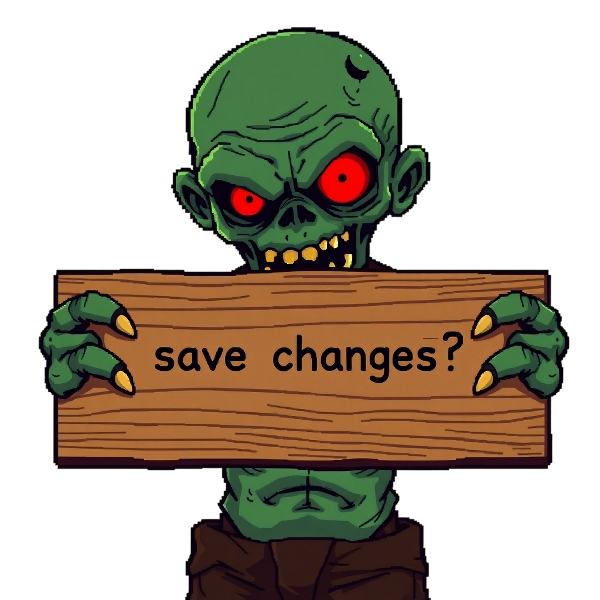
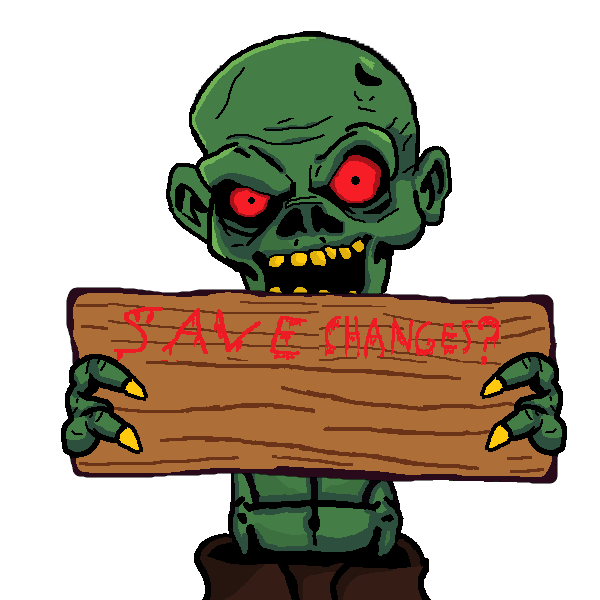
menu option zombie animation apparition disparition, touche modifié en rouge

diff --git a/menu/settings_menu.py b/menu/settings_menu.py
@@ -25,15 +25,20 @@ class settingsMenu:
         self.reset_img = pygame.image.load("img/settings_menu/reset_btn.png").convert_alpha()
         self.yes_img = pygame.image.load("img\settings_menu\YES.png").convert_alpha()
         self.no_img = pygame.image.load("img/settings_menu/NO.png").convert_alpha()
+        self.cancel_img = pygame.image.load("img/settings_menu/cancel.png").convert_alpha()
         
 
         self.zombie = zombieSettings(self.screen,"img/settings_menu/zombie_body.png","img/settings_menu/zombie_arm.png",1920//2,1080)
-        self.target_zombie_y = self.zombie.zombie_body_img_rect.y + 1000
+        self.target_zombie_hide = self.zombie.zombie_body_img_rect.y + 1000
+        self.target_zombie_show = self.zombie.zombie_body_img_rect.y
 
         self.leave_zombie_img = pygame.image.load("img\settings_menu\leave_alert.png").convert_alpha()
         self.leave_zombie_rect = self.leave_zombie_img.get_rect()
         self.leave_zombie_rect.midtop = (1920//2, 1080)
-        self.target_y = 500
+
+        self.target_leave_show = self.leave_zombie_rect.y - 600
+        self.target_leave_hide = self.leave_zombie_rect.y 
+
         self.speed = 20
         
         self.back_button = Button(self.screen,20,900,self.back_img,0.8)
@@ -42,8 +47,12 @@ class settingsMenu:
 
         self.yes_btn = Button(self.screen, self.leave_zombie_rect.center[0]-130, self.leave_zombie_rect.center[1]+100, self.yes_img)
         self.no_btn = Button(self.screen, self.leave_zombie_rect.center[0]+100, self.leave_zombie_rect.center[1]+100, self.no_img)
+        self.cancel_btn = Button(self.screen, self.leave_zombie_rect.center[0]-40, self.leave_zombie_rect.center[1]+100, self.cancel_img)
+
+
         self.target_yes = (self.leave_zombie_rect.center[0]-130, self.leave_zombie_rect.center[1]+100)
         self.target_no = (self.leave_zombie_rect.center[0]+100, self.leave_zombie_rect.center[1]+100)
+        self.target_cancel = (self.leave_zombie_rect.center[0], self.leave_zombie_rect.center[1]+100)
 
         self.current_touch = None
         self.change_detected = False
@@ -92,6 +101,50 @@ class settingsMenu:
         for i in range(len(self.touch_list)): 
            self.touch_list[i].touch[1] = list(self.controls.values())[i]
         
+    def hide_zombie_point(self):
+        if self.zombie.zombie_body_img_rect.y < self.target_zombie_hide:
+            self.zombie.zombie_body_img_rect.y += self.speed
+            self.zombie.zombie_arm_img_rect.y += self.speed
+            if self.zombie.zombie_body_img_rect.y > self.target_zombie_hide:
+                self.zombie.zombie_body_img_rect.y = self.target_zombie_hide 
+                self.zombie.zombie_arm_img_rect.y = self.target_zombie_hide 
+            return 0
+        return 1
+
+    def hide_zombie_leave(self):
+        if self.leave_zombie_rect.y < self.target_leave_hide:
+            self.leave_zombie_rect.y += self.speed
+            self.yes_btn.rect[1] += self.speed
+            self.no_btn.rect[1] += self.speed
+            self.cancel_btn.rect[1] += self.speed
+            if self.leave_zombie_rect.y > self.target_leave_hide:
+                self.leave_zombie_rect.y = self.target_leave_hide  
+                self.yes_btn.rect.center = self.target_yes
+                self.no_btn.rect.center = self.target_no
+                self.cancel_btn.rect.center = self.target_cancel
+            return 0
+        return 1
+
+    def show_zombie_point(self):
+         if self.zombie.zombie_body_img_rect.y > self.target_zombie_show:
+            self.zombie.zombie_body_img_rect.y -= self.speed
+            self.zombie.zombie_arm_img_rect.y -= self.speed
+            if self.zombie.zombie_body_img_rect.y < self.target_zombie_show:
+                self.zombie.zombie_body_img_rect.y = self.target_zombie_show 
+                self.zombie.zombie_arm_img_rect.y = self.target_zombie_show
+
+    def show_zombie_leave(self):
+        if self.leave_zombie_rect.y > self.target_leave_show:
+            self.leave_zombie_rect.y -= self.speed
+            self.yes_btn.rect[1] -= self.speed
+            self.no_btn.rect[1] -= self.speed
+            self.cancel_btn.rect[1] -= self.speed
+            if self.leave_zombie_rect.y < self.target_leave_show:
+                self.leave_zombie_rect.y = self.target_leave_show  # Pour ne pas dépasser
+                self.yes_btn.rect.center = self.target_yes
+                self.no_btn.rect.center = self.target_no
+                self.cancel_btn.rect.center = self.target_cancel
+    
     def update(self, key, manager):
         """Met à jour les interactions du menu."""
         self.screen.fill((0,0,0))
@@ -99,38 +152,33 @@ class settingsMenu:
         self.zombie.draw()
         self.zombie.point_at(pygame.mouse.get_pos())
         
-        
         for i in self.touch_list:
             i.draw()
         
         if self.change_detected:
             #en bas zombie avec bras
-            if self.zombie.zombie_body_img_rect.y < self.target_zombie_y:
-                self.zombie.zombie_body_img_rect.y += self.speed
-                self.zombie.zombie_arm_img_rect.y += self.speed
-                if self.zombie.zombie_body_img_rect.y > self.target_zombie_y:
-                    self.zombie.zombie_body_img_rect.y = self.target_zombie_y 
-                    self.zombie.zombie_arm_img_rect.y = self.target_zombie_y 
-            else:
-                #en haut zombie avec bras
-                if self.leave_zombie_rect.y > self.target_y:
-                    self.leave_zombie_rect.y -= self.speed
-                    self.yes_btn.rect[1] -= self.speed
-                    self.no_btn.rect[1] -= self.speed
-                    if self.leave_zombie_rect.y < self.target_y:
-                        self.leave_zombie_rect.y = self.target_y  # Pour ne pas dépasser
-                        self.yes_btn.rect.center = self.target_yes
-                        self.no_btn.rect.center = self.target_no
+            if(self.hide_zombie_point()):
+                self.show_zombie_leave()
 
             self.screen.blit(self.leave_zombie_img, self.leave_zombie_rect)
             self.yes_btn.draw()
             self.no_btn.draw()
+            self.cancel_btn.draw()
+
+        else:
+            if(self.hide_zombie_leave()):
+                self.show_zombie_point()
+            
+            self.screen.blit(self.leave_zombie_img, self.leave_zombie_rect)
+            self.yes_btn.draw()
+            self.no_btn.draw()
+            self.cancel_btn.draw()
 
         self.save_button.draw()
         self.back_button.draw()
         self.reset_button.draw()
         
-        # detecte quelle touch est en cours de selection
+        # detecte quelle touche est en cours de selection
         for i in self.touch_list:
             if i.detect():
                 self.current_touch = i
@@ -157,14 +205,18 @@ class settingsMenu:
                 self.current_touch.draw_default_touch()
                 self.controls[self.current_touch.touch[0]] = self.current_touch.touch[1]
                 self.current_touch = None
-        
-    
+
         if self.save_button.detect():
             self.save_change()
+            for touch in self.touch_list:
+                touch.color = "black"
 
         if self.yes_btn.detect():
             self.save_change()
             self.leave_menu(manager)
+
+        if self.cancel_btn.detect():
+            self.change_detected = False
 
         if self.no_btn.detect():
             self.leave_menu(manager)
@@ -175,5 +227,9 @@ class settingsMenu:
         if self.back_button.detect():
             if self.controls_save != self.controls:
                 self.change_detected = True
+                for touch in self.touch_list:
+                    if touch.touch[1] not in list(self.controls_save.values()):
+                        touch.color = "red"
+             
             else:
                 self.leave_menu(manager)

diff --git a/menu/tools/map_touch.py b/menu/tools/map_touch.py
@@ -8,6 +8,7 @@ class Touch:
         self.y = y
         self.frame_size = 50
         self.frame_rect = (self.x+(self.frame_size/2), self.y+(self.frame_size/2))
+        self.color = "black"
         # self.is_select = False
        
     def draw(self):
@@ -28,7 +29,7 @@ class Touch:
 
     def draw_default_touch(self):
         pygame.draw.rect(self.screen,"white", (self.x,self.y, self.frame_size,self.frame_size))
-        pygame.draw.rect(self.screen,"black", (self.x+2,self.y+2, self.frame_size-4,self.frame_size-4))
+        pygame.draw.rect(self.screen,self.color, (self.x+2,self.y+2, self.frame_size-4,self.frame_size-4))
         font = pygame.font.Font("The Last Of Us Rough.ttf", 40)
         self.touch_text = font.render(self.touch[1], True, (255,255,255))
         self.touch_text_rect = self.touch_text.get_rect(center=(self.frame_rect[0], self.frame_rect[1]))
@@ -36,7 +37,7 @@ class Touch:
 
     def draw_select_touch(self):
         pygame.draw.rect(self.screen,"white", (self.x,self.y, self.frame_size,self.frame_size))
-        pygame.draw.rect(self.screen,"black", (self.x+2,self.y+2, self.frame_size-4,self.frame_size-4))
+        pygame.draw.rect(self.screen,self.color, (self.x+2,self.y+2, self.frame_size-4,self.frame_size-4))
         font = pygame.font.Font("The Last Of Us Rough.ttf", 40)
         self.touch_text = font.render("__", True, (255,255,255))
         self.touch_text_rect = self.touch_text.get_rect(center=(self.frame_rect[0], self.frame_rect[1]))

diff --git a/button.py b/button.py
@@ -15,6 +15,8 @@ class Button():
 			self.rect.topright = (x,y)
 		elif center_pos == "bottomright":
 			self.rect.bottomright = (x,y)
+		elif center_pos == "center":
+			self.rect.center = (x,y)
 		self.clicked = False
 		self.activated = None
 		self.over_on = 0
